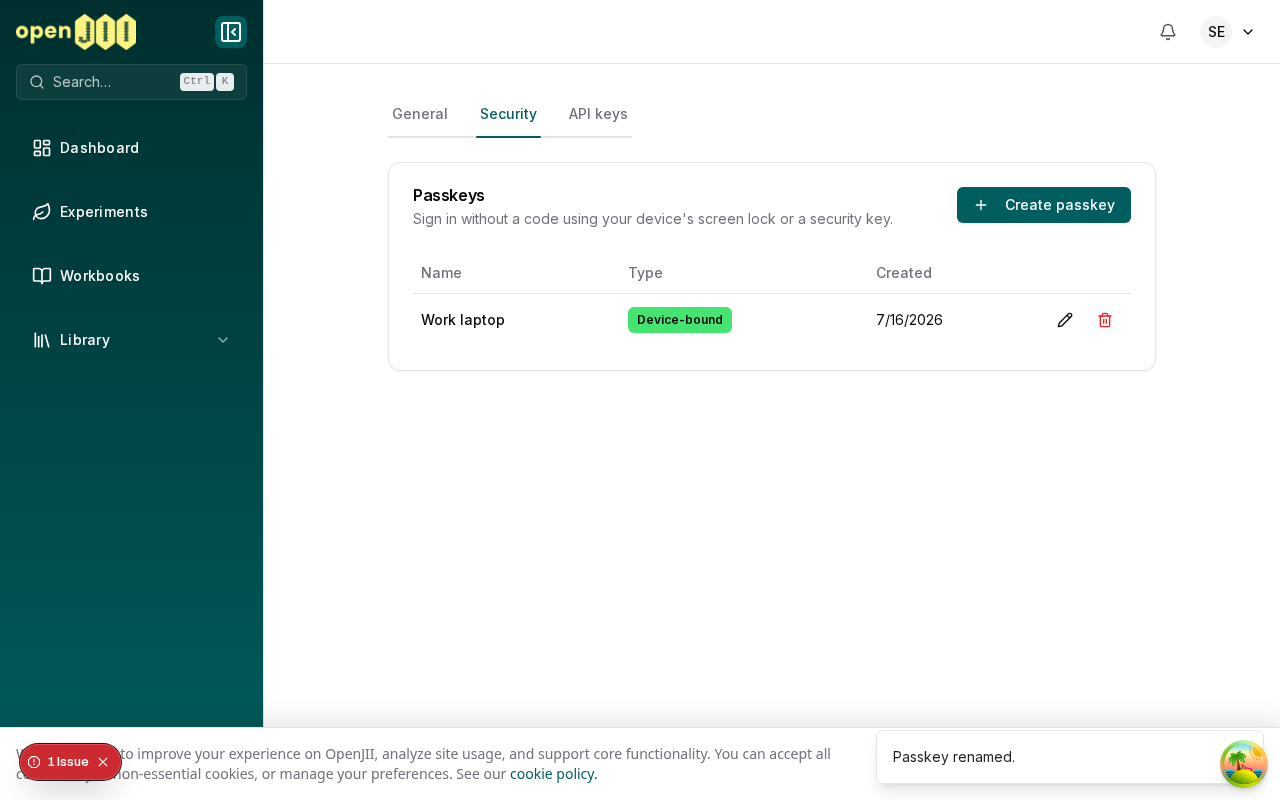
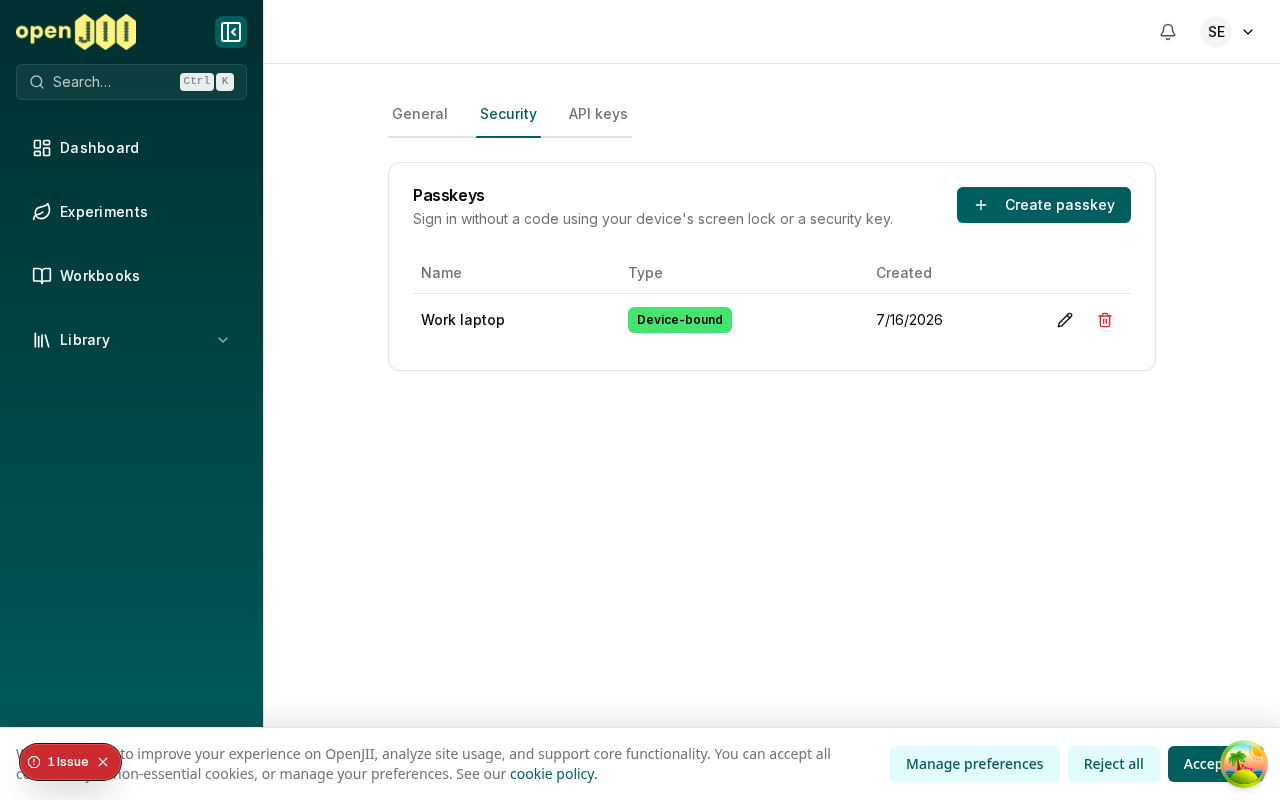
feat(web): passkey invite dialog after sign-in (Google UX journey); drop success toasts

Changed region(s): [[0.6875, 0.9062, 0.9688, 1.0]]

diff --git a/apps/web/components/auth/passkey-create-prompt.tsx b/apps/web/components/auth/passkey-create-prompt.tsx
@@ -1,12 +1,21 @@
 "use client";
 
-import { useRouter } from "next/navigation";
-import { useEffect, useRef } from "react";
+import { CheckCircle2, Fingerprint, Loader2 } from "lucide-react";
+import { useEffect, useRef, useState } from "react";
+import { useAddPasskey } from "~/hooks/auth/useAddPasskey/useAddPasskey";
 import { usePasskeys } from "~/hooks/auth/usePasskeys/usePasskeys";
 
 import { authClient } from "@repo/auth/client";
 import { useTranslation } from "@repo/i18n";
-import { ToastAction } from "@repo/ui/components/toast";
+import { Button } from "@repo/ui/components/button";
+import {
+  Dialog,
+  DialogContent,
+  DialogDescription,
+  DialogFooter,
+  DialogHeader,
+  DialogTitle,
+} from "@repo/ui/components/dialog";
 import { toast } from "@repo/ui/hooks/use-toast";
 
 const DISMISSED_KEY = "openjii.passkey-prompt-dismissed";
@@ -15,14 +24,17 @@ const SHOWN_KEY = "openjii.passkey-prompt-shown";
 const MAX_PROMPTS = 3;
 
 /**
- * After a non-passkey sign-in, users without a passkey get a dismissible
- * invitation to create one: at most once per session and three times overall;
- * following the prompt silences it for good.
+ * After a non-passkey sign-in, users without a passkey are invited to create
+ * one on the spot (Google passkey UX journey: invite, run the OS ceremony,
+ * confirm). Shown at most once per session and three times overall; "Not now"
+ * on the third strike, or creating a passkey, silences it for good.
  */
-export function PasskeyCreatePrompt({ locale }: { locale: string }) {
+export function PasskeyCreatePrompt() {
   const { t } = useTranslation("account");
-  const router = useRouter();
   const { data: passkeys } = usePasskeys();
+  const addPasskey = useAddPasskey();
+  const [open, setOpen] = useState(false);
+  const [created, setCreated] = useState(false);
   const prompted = useRef(false);
 
   useEffect(() => {
@@ -35,23 +47,63 @@ export function PasskeyCreatePrompt({ locale }: { locale: string }) {
     prompted.current = true;
     sessionStorage.setItem(SHOWN_KEY, "true");
     localStorage.setItem(COUNT_KEY, String(count + 1));
-    toast({
-      title: t("passkeys.promptTitle"),
-      description: t("passkeys.promptDescription"),
-      duration: 20000,
-      action: (
-        <ToastAction
-          altText={t("passkeys.promptAction")}
-          onClick={() => {
-            localStorage.setItem(DISMISSED_KEY, "true");
-            router.push(`/${locale}/platform/account/security`);
-          }}
-        >
-          {t("passkeys.promptAction")}
-        </ToastAction>
-      ),
-    });
-  }, [passkeys, router, locale, t]);
+    if (count + 1 >= MAX_PROMPTS) localStorage.setItem(DISMISSED_KEY, "true");
+    setOpen(true);
+  }, [passkeys]);
 
-  return null;
+  const handleCreate = async () => {
+    try {
+      await addPasskey.mutateAsync({});
+      localStorage.setItem(DISMISSED_KEY, "true");
+      setCreated(true);
+    } catch {
+      toast({ description: t("passkeys.addError"), variant: "destructive" });
+    }
+  };
+
+  return (
+    <Dialog open={open} onOpenChange={setOpen}>
+      <DialogContent className="max-w-md">
+        {created ? (
+          <>
+            <DialogHeader>
+              <div className="flex justify-center py-2">
+                <CheckCircle2 className="text-jii-dark-green h-10 w-10" />
+              </div>
+              <DialogTitle className="text-center">{t("passkeys.promptSuccessTitle")}</DialogTitle>
+              <DialogDescription className="text-center">
+                {t("passkeys.promptSuccessDescription")}
+              </DialogDescription>
+            </DialogHeader>
+            <DialogFooter>
+              <Button className="w-full" onClick={() => setOpen(false)}>
+                {t("passkeys.promptDone")}
+              </Button>
+            </DialogFooter>
+          </>
+        ) : (
+          <>
+            <DialogHeader>
+              <div className="flex justify-center py-2">
+                <Fingerprint className="text-muted-foreground h-10 w-10" />
+              </div>
+              <DialogTitle className="text-center">{t("passkeys.promptTitle")}</DialogTitle>
+              <DialogDescription className="text-center">
+                {t("passkeys.promptDescription")}
+              </DialogDescription>
+            </DialogHeader>
+            <DialogFooter className="flex-col gap-2 sm:flex-col">
+              <Button className="w-full" onClick={handleCreate} disabled={addPasskey.isPending}>
+                {addPasskey.isPending && <Loader2 className="mr-2 h-4 w-4 animate-spin" />}
+                {t("passkeys.promptAction")}
+              </Button>
+              <Button variant="ghost" className="w-full" onClick={() => setOpen(false)}>
+                {t("passkeys.promptNotNow")}
+              </Button>
+            </DialogFooter>
+          </>
+        )}
+      </DialogContent>
+    </Dialog>
+  );
 }

diff --git a/apps/web/components/auth/passkey-create-prompt.test.tsx b/apps/web/components/auth/passkey-create-prompt.test.tsx
@@ -1,8 +1,7 @@
-import { render, waitFor } from "@/test/test-utils";
+import { render, screen, userEvent, waitFor } from "@/test/test-utils";
 import { beforeEach, describe, expect, it, vi } from "vitest";
 
 import { authClient } from "@repo/auth/client";
-import { toast } from "@repo/ui/hooks/use-toast";
 
 import { PasskeyCreatePrompt } from "./passkey-create-prompt";
 
@@ -14,15 +13,34 @@ describe("PasskeyCreatePrompt", () => {
     vi.mocked(authClient.getLastUsedLoginMethod).mockReturnValue(null);
   });
 
-  it("prompts a passkey-less user once", async () => {
-    render(<PasskeyCreatePrompt locale="en-US" />);
+  it("invites a passkey-less user and creates a passkey in place", async () => {
+    vi.mocked(authClient.passkey.addPasskey).mockResolvedValue({
+      data: null,
+      error: null,
+    } as never);
+    const user = userEvent.setup();
+    render(<PasskeyCreatePrompt />);
 
-    await waitFor(() =>
-      expect(toast).toHaveBeenCalledWith(
-        expect.objectContaining({ title: "passkeys.promptTitle" }),
-      ),
-    );
+    expect(await screen.findByText("passkeys.promptTitle")).toBeInTheDocument();
     expect(sessionStorage.getItem("openjii.passkey-prompt-shown")).toBe("true");
+
+    await user.click(screen.getByRole("button", { name: "passkeys.promptAction" }));
+
+    await waitFor(() => expect(authClient.passkey.addPasskey).toHaveBeenCalledWith({}));
+    expect(await screen.findByText("passkeys.promptSuccessTitle")).toBeInTheDocument();
+    expect(localStorage.getItem("openjii.passkey-prompt-dismissed")).toBe("true");
+
+    await user.click(screen.getByRole("button", { name: "passkeys.promptDone" }));
+    await waitFor(() => expect(screen.queryByRole("dialog")).not.toBeInTheDocument());
+  });
+
+  it("closes on Not now and counts the prompt", async () => {
+    const user = userEvent.setup();
+    render(<PasskeyCreatePrompt />);
+
+    await user.click(await screen.findByRole("button", { name: "passkeys.promptNotNow" }));
+
+    await waitFor(() => expect(screen.queryByRole("dialog")).not.toBeInTheDocument());
     expect(localStorage.getItem("openjii.passkey-prompt-count")).toBe("1");
   });
 
@@ -31,25 +49,25 @@ describe("PasskeyCreatePrompt", () => {
       data: [{ id: "p1" }],
       error: null,
     });
-    render(<PasskeyCreatePrompt locale="en-US" />);
+    render(<PasskeyCreatePrompt />);
 
     await waitFor(() => expect(authClient.passkey.listUserPasskeys).toHaveBeenCalled());
-    expect(toast).not.toHaveBeenCalled();
+    expect(screen.queryByRole("dialog")).not.toBeInTheDocument();
   });
 
   it("does not prompt when dismissed or over the cap", async () => {
     localStorage.setItem("openjii.passkey-prompt-count", "3");
-    render(<PasskeyCreatePrompt locale="en-US" />);
+    render(<PasskeyCreatePrompt />);
 
     await waitFor(() => expect(authClient.passkey.listUserPasskeys).toHaveBeenCalled());
-    expect(toast).not.toHaveBeenCalled();
+    expect(screen.queryByRole("dialog")).not.toBeInTheDocument();
   });
 
   it("does not prompt right after a passkey sign-in", async () => {
     vi.mocked(authClient.getLastUsedLoginMethod).mockReturnValue("passkey");
-    render(<PasskeyCreatePrompt locale="en-US" />);
+    render(<PasskeyCreatePrompt />);
 
     await waitFor(() => expect(authClient.passkey.listUserPasskeys).toHaveBeenCalled());
-    expect(toast).not.toHaveBeenCalled();
+    expect(screen.queryByRole("dialog")).not.toBeInTheDocument();
   });
 });

diff --git a/apps/web/components/account-settings/passkeys/create-passkey-button.test.tsx b/apps/web/components/account-settings/passkeys/create-passkey-button.test.tsx
@@ -7,7 +7,7 @@ import { toast } from "@repo/ui/hooks/use-toast";
 import { CreatePasskeyButton } from "./create-passkey-button";
 
 describe("CreatePasskeyButton", () => {
-  it("triggers passkey creation on click and toasts on success", async () => {
+  it("triggers passkey creation on click without a success toast", async () => {
     vi.mocked(authClient.passkey.addPasskey).mockResolvedValue({
       data: null,
       error: null,
@@ -18,7 +18,7 @@ describe("CreatePasskeyButton", () => {
     await user.click(screen.getByRole("button", { name: "passkeys.add" }));
 
     await waitFor(() => expect(authClient.passkey.addPasskey).toHaveBeenCalledWith({}));
-    expect(toast).toHaveBeenCalledWith({ description: "passkeys.added" });
+    expect(toast).not.toHaveBeenCalled();
   });
 
   it("shows a destructive toast when the ceremony fails", async () => {

diff --git a/apps/web/app/[locale]/platform/layout.tsx b/apps/web/app/[locale]/platform/layout.tsx
@@ -79,7 +79,7 @@ export default async function AppLayout({
         <CommandPalette locale={locale} />
         <Toaster />
         <ShortcutHint />
-        <PasskeyCreatePrompt locale={locale} />
+        <PasskeyCreatePrompt />
         <WhatsNewSheet entries={releaseNotes} />
       </ActivityProvider>
     </SidebarProvider>

diff --git a/apps/web/components/account-settings/api-keys/create-api-key-dialog.test.tsx b/apps/web/components/account-settings/api-keys/create-api-key-dialog.test.tsx
@@ -49,7 +49,7 @@ describe("CreateApiKeyDialog", () => {
     await user.click(screen.getByRole("button", { name: "apiKeys.copy" }));
 
     expect(writeText).toHaveBeenCalledWith("jii_abc123");
-    expect(toast).toHaveBeenCalledWith({ description: "apiKeys.copied" });
+    expect(toast).not.toHaveBeenCalled();
   });
 
   it("shows a destructive toast when creation fails", async () => {

diff --git a/apps/web/components/account-settings/api-keys/revoke-api-key-dialog.test.tsx b/apps/web/components/account-settings/api-keys/revoke-api-key-dialog.test.tsx
@@ -22,7 +22,7 @@ describe("RevokeApiKeyDialog", () => {
     await user.click(within(dialog).getByRole("button", { name: "apiKeys.revoke" }));
 
     await waitFor(() => expect(authClient.apiKey.delete).toHaveBeenCalledWith({ keyId: "k1" }));
-    expect(toast).toHaveBeenCalledWith({ description: "apiKeys.revoked" });
+    expect(toast).not.toHaveBeenCalled();
     await waitFor(() => expect(screen.queryByRole("alertdialog")).not.toBeInTheDocument());
   });
 

diff --git a/apps/web/components/account-settings/api-keys/create-api-key-dialog.tsx b/apps/web/components/account-settings/api-keys/create-api-key-dialog.tsx
@@ -80,7 +80,6 @@ export function CreateApiKeyDialog() {
     if (!createdKey) return;
     await navigator.clipboard.writeText(createdKey);
     setCopied(true);
-    toast({ description: t("apiKeys.copied") });
   };
 
   return (

diff --git a/apps/web/components/account-settings/api-keys/revoke-api-key-dialog.tsx b/apps/web/components/account-settings/api-keys/revoke-api-key-dialog.tsx
@@ -26,7 +26,6 @@ export function RevokeApiKeyDialog({ keyId, keyName }: { keyId: string; keyName:
   const handleRevoke = async () => {
     try {
       await deleteApiKey.mutateAsync({ keyId });
-      toast({ description: t("apiKeys.revoked") });
       setOpen(false);
     } catch {
       toast({ description: t("apiKeys.revokeError"), variant: "destructive" });

diff --git a/apps/web/components/account-settings/passkeys/create-passkey-button.tsx b/apps/web/components/account-settings/passkeys/create-passkey-button.tsx
@@ -16,7 +16,6 @@ export function CreatePasskeyButton() {
   const handleClick = async () => {
     try {
       await addPasskey.mutateAsync({});
-      toast({ description: t("passkeys.added") });
     } catch {
       toast({ description: t("passkeys.addError"), variant: "destructive" });
     }

diff --git a/apps/web/components/account-settings/passkeys/delete-passkey-dialog.tsx b/apps/web/components/account-settings/passkeys/delete-passkey-dialog.tsx
@@ -32,7 +32,6 @@ export function DeletePasskeyDialog({
   const handleDelete = async () => {
     try {
       await deletePasskey.mutateAsync({ id: passkeyId });
-      toast({ description: t("passkeys.deleted") });
       setOpen(false);
     } catch {
       toast({ description: t("passkeys.deleteError"), variant: "destructive" });

diff --git a/apps/web/components/account-settings/passkeys/rename-passkey-dialog.tsx b/apps/web/components/account-settings/passkeys/rename-passkey-dialog.tsx
@@ -32,7 +32,6 @@ export function RenamePasskeyDialog({
   const handleRename = async () => {
     try {
       await updatePasskey.mutateAsync({ id: passkeyId, name });
-      toast({ description: t("passkeys.renamed") });
       setOpen(false);
     } catch {
       toast({ description: t("passkeys.renameError"), variant: "destructive" });